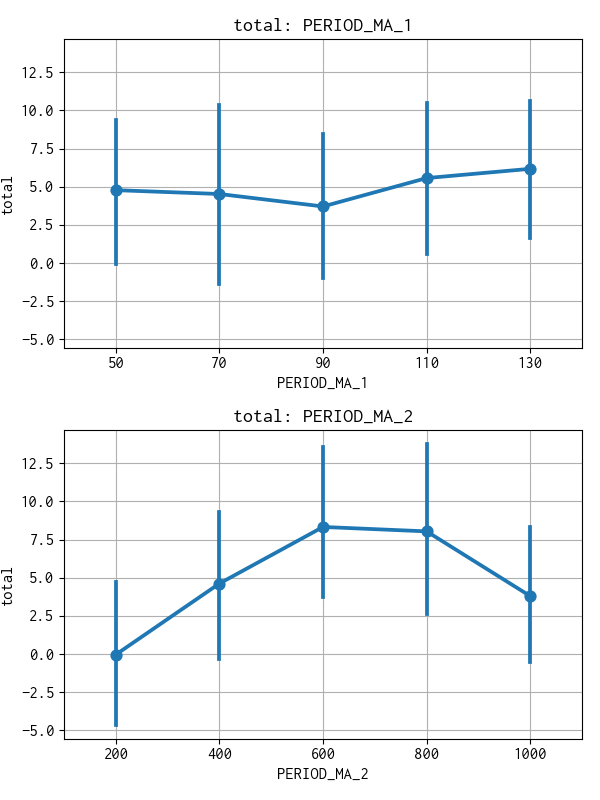
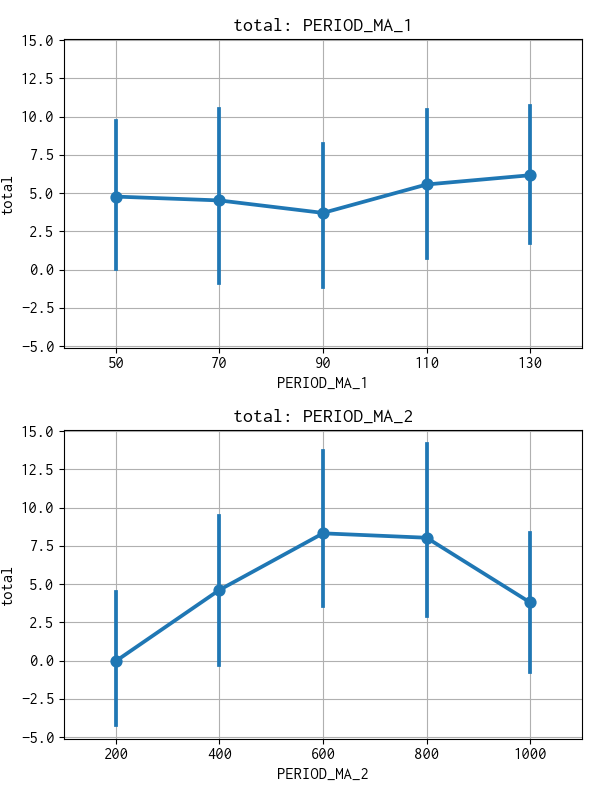
update

diff --git a/modules/prophet.py b/modules/prophet.py
@@ -65,7 +65,8 @@ class Prophet(QMainWindow):
         """
         # self.name_doe = "doe-1"
         # self.name_doe = "doe-2"
-        self.name_doe = "doe-3"
+        # self.name_doe = "doe-3"
+        self.name_doe = "doe-4"
         self.row_condition = 0
         self.dict_doe = dict()  # DOE 用
         """
@@ -136,7 +137,6 @@ class Prophet(QMainWindow):
                 7, 7, 7, 7, 7, 7, 7, 7, 7,
             ],
         })
-        """
         # doe-3
         self.factor_doe = ["PERIOD_MA_1", "PERIOD_MA_2"]
         self.df_matrix = pd.DataFrame({
@@ -153,6 +153,25 @@ class Prophet(QMainWindow):
                 600, 600, 600, 600, 600,
                 800, 800, 800, 800, 800,
                 1000, 1000, 1000, 1000, 1000,
+            ],
+        })
+        """
+        # doe-4
+        self.factor_doe = ["PERIOD_MA_1", "PERIOD_MA_2"]
+        self.df_matrix = pd.DataFrame({
+            "PERIOD_MA_1": [
+                60, 90, 120, 150, 180,
+                60, 90, 120, 150, 180,
+                60, 90, 120, 150, 180,
+                60, 90, 120, 150, 180,
+                60, 90, 120, 150, 180,
+            ],
+            "PERIOD_MA_2": [
+                500, 500, 500, 500, 500,
+                600, 600, 600, 600, 600,
+                700, 700, 700, 700, 700,
+                800, 800, 800, 800, 800,
+                900, 900, 900, 900, 900,
             ],
         })
 
